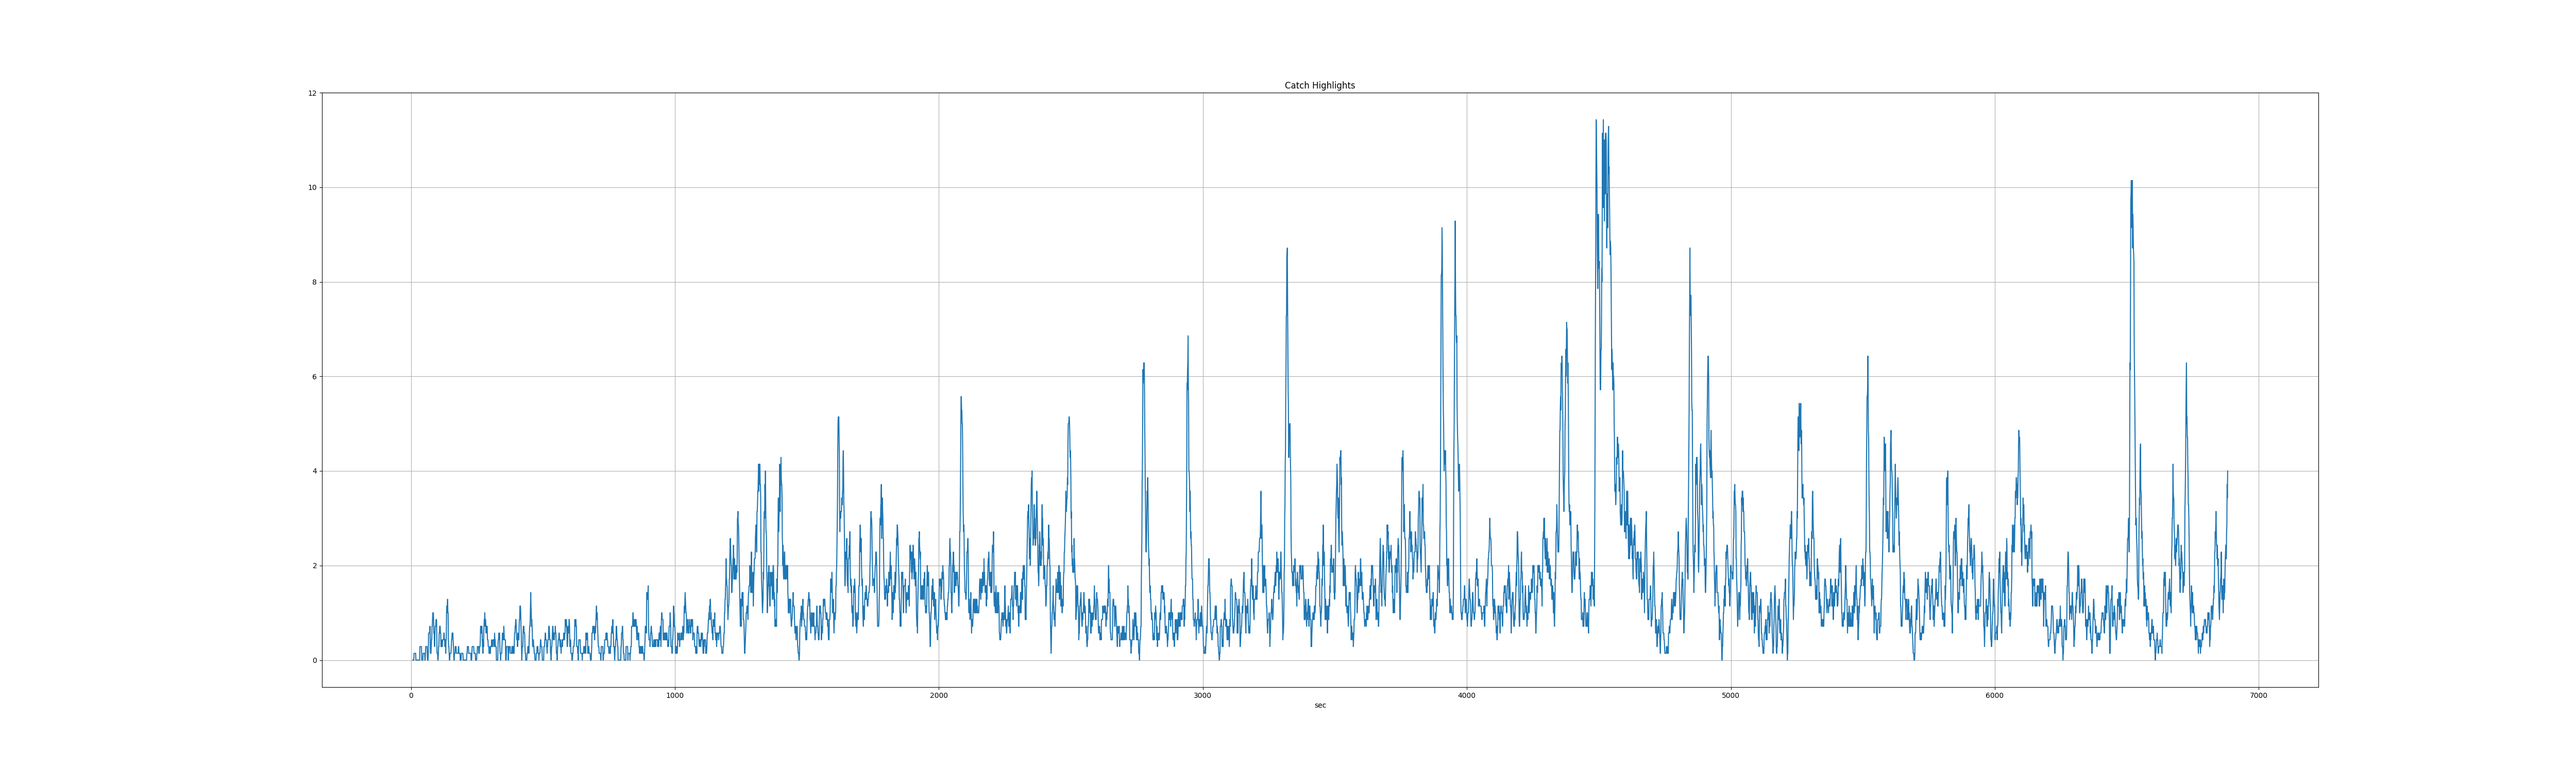
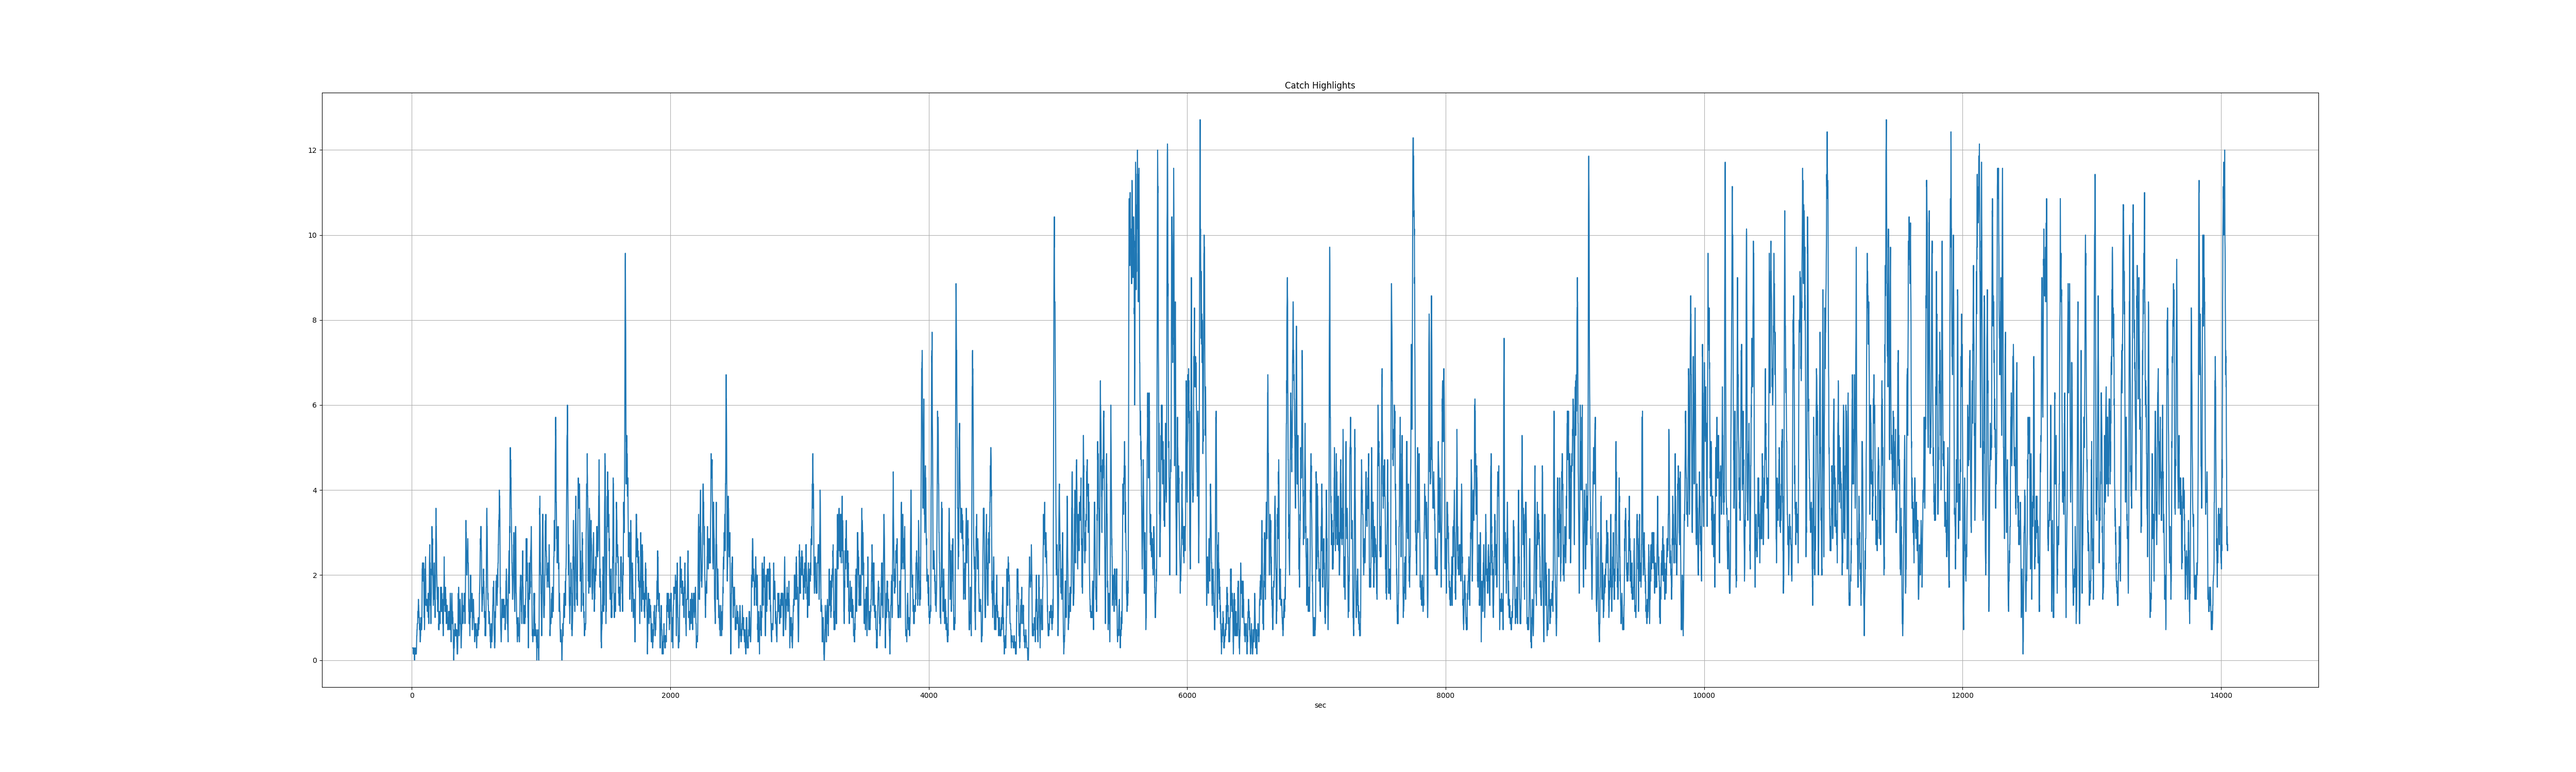
Code Modularization and Setting default parameter

Changed region(s): [[0.156, 0.184, 0.8736, 0.8587]]

diff --git a/FindHighlight/highlight.py b/FindHighlight/highlight.py
@@ -1,68 +1,93 @@
-import sys, json, datetime, pandas as pd
-from collections import Counter 
+import json, datetime
+import pandas as pd
+from collections import Counter
 from matplotlib import pyplot as plt
 
-with open("../Samples/LCK/LCK_Summer_Split.json", encoding='UTF-8') as jFile:
-    dict1 = json.load(jFile)
+def check_frequency(json_data):
+    timeData=[]
+    for chat in json_data:
+        timeData.append(int(json_data[chat]['time']))
 
-# string to time
-timeData=[]
-for m in dict1:
-    timestr = dict1[m]['time']
-    dt = datetime.datetime.strptime(timestr, '[%H:%M:%S]')
-    timeData.append(dt.hour*3600+dt.minute*60+dt.second)
+    freq = Counter(timeData)
+    temp = pd.Series(freq)
+    chat_count = temp.reindex(list(range(1,temp.last_valid_index()+1)), fill_value=0)
 
-# sorting
-freq = Counter(timeData)
-rawData = pd.Series(freq)
-rawData = rawData.reindex(list(range(1,rawData.last_valid_index()+1)), fill_value=0)
+    return chat_count   # 시간대별 채팅 수 반환
 
-# filtering (moving arrange filter)
-win = 7 #입력
-filtData = rawData.rolling(win).mean()
 
-# find highlight
-print('하이라이트 최소 길이(sec):', end=' ')
-TERM = int(input()) # 입력(하이라이트 기간) ex: 10
-print('하이라이트 비율(%):', end=' ')
-PER = int(input()) # 입력(퍼센트) ex: 3
+# START: 하이라이트 측정 (default: 0)
+# WIN: 이동평균 인자 (default: 7)
+def data_preprocessing(chat_count, START=0, WIN=7):
+    # 이동평균 적용(WIN)
+    moving_avg = chat_count.rolling(WIN).mean() 
 
-START = 5*60 # 입력(시작시간)
+    # 앞부분(START) 자르고 채팅 빈도순으로 정렬하기
+    processed_data = moving_avg.drop(list(range(1,START))).sort_values(ascending=[False])
 
-length = rawData.last_valid_index() # 영상길이
-lim = length*PER*0.01 # 하이라이트 길이
+    return moving_avg, processed_data   # 그래프 x축, 전처리된 데이터 반환
 
-hiData = filtData.drop(list(range(1,START))).sort_values(ascending=[False])
-H=[]
-hileng=0
-num=0
-while(hileng<lim):
+
+# TERM: 단편 하이라이트의 최소 길이 (default: 10sec)
+# LENGTH: 전체 하이라이트 길이 (default: 10min)
+def find_highlight(data, TERM=10, LENGTH=60*10):
+    H=[]
     hileng=0
-    peaktime=hiData.index[num]
-    H.append((peaktime-TERM, peaktime))
-    H.sort()
-    try:
-        for i in range(0,len(H)):
-            while (True):
-                if H[i][1] >= H[i+1][0]:
-                    if H[i][1] <= H[i+1][1]:
-                        H[i]=(H[i][0],H[i+1][1])
-                    del H[i+1]
-                else:
-                    break
-    except IndexError:
-        for t in H:
-            hileng += t[1]-t[0]
-    num+=1
+    num=0
+    while(hileng<LENGTH):
+        hileng=0
+        peaktime=data.index[num]
+        H.append((peaktime-TERM, peaktime))
+        H.sort()
+        try:
+            for i in range(0,len(H)):
+                while (True):
+                    if H[i][1] >= H[i+1][0]:
+                        if H[i][1] <= H[i+1][1]:
+                            H[i]=(H[i][0],H[i+1][1])
+                        del H[i+1]
+                    else:
+                        break
+        except IndexError:
+            for t in H:
+                hileng += t[1]-t[0]
+        num+=1
 
-for i, (left, right) in enumerate(H):
-    print('['+str(i+1)+'] ' + str(datetime.timedelta(seconds=int(left))) + ' ~ ' + 
-    str(datetime.timedelta(seconds=int(right))))
+    return H, hileng    # 하이라이트 구간, 전체길이 반환
 
-print("하이라이트 개수: " + str(len(H)))
-print("전체 하이라이트 길이: " + str(hileng))
 
-# visualization
-filtData.plot(figsize=(50,15), grid=True, title="Catch Highlights")
-plt.xlabel("sec")
-plt.savefig('graph.png')
+def print_result(highlight, leng):
+    for i, (left, right) in enumerate(highlight):
+        print('['+str(i+1)+'] ' + str(datetime.timedelta(seconds=int(left))) + ' ~ ' + 
+        str(datetime.timedelta(seconds=int(right))))
+        print("하이라이트 개수: " + str(len(highlight)))
+    print("전체 하이라이트 길이: " + str(leng))
+
+
+def visualization(x):
+    x.plot(figsize=(50,15), grid=True, title="Catch Highlights")
+    plt.xlabel("sec")
+    plt.savefig('graph.png')
+
+
+"""실행 코드"""
+# json 파일 열기
+json_path = "../Crawler-Twitch/temp.json"
+with open(json_path, encoding='UTF-8') as jFile:
+    json_data = json.load(jFile)
+
+# 채팅 데이터에서 각 시간별 채팅 빈도수만 뽑아서 반환
+chat_count = check_frequency(json_data)          
+
+# 데이터를 전처리하여 사용할 채팅 빈도수만 골라 반환 
+## moving_average: 이동평균 데이터
+## 전처리: 이동평균 적용, 앞부분 슬라이싱, 정렬
+moving_avg, preprocessed_data = data_preprocessing(chat_count)
+
+# 실제 하이라이트 구간, 전체 길이 반환
+highlight, leng = find_highlight(preprocessed_data)
+
+# 결과 출력
+print_result(highlight, leng)
+
+# 그래프 저장
+visualization(moving_avg)
